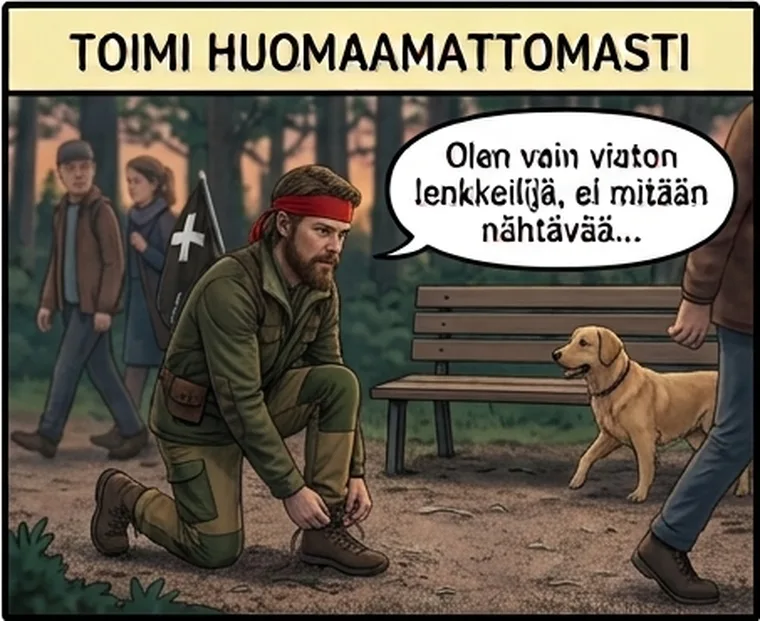
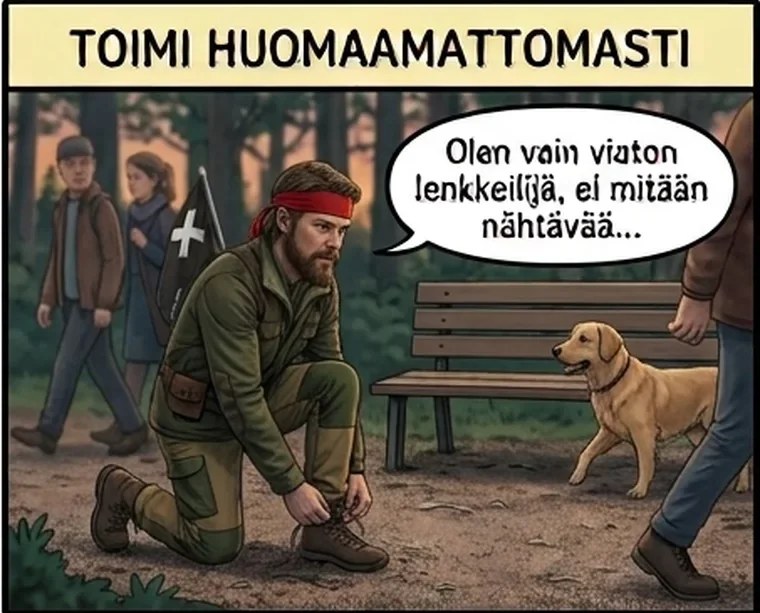
Croppaa sääntöjen sarjakuvakuvat tasan samankokoisiksi
Kuvat olivat 760px leveitä mutta 613-621px korkeita, joten CSS-kehys
(aspect-ratio + object-fit: cover) approksimoi kokoa ja croppasi hieman
eri määrän ruudusta riippuen. Croppaa nyt kuvatiedostot itse keskeltä
tasan 760x613:een (pienin yhteinen korkeus), jotta jokainen ruutu on
pikselilleen identtinen eikä CSS:n tarvitse arvata suhdetta.

diff --git a/app/src/App.css b/app/src/App.css
@@ -500,7 +500,7 @@ body {
 
 .saannot-kuva-kehys {
   width: 100%;
-  aspect-ratio: 760 / 618;
+  aspect-ratio: 760 / 613;
   margin: 0;
 }
 
